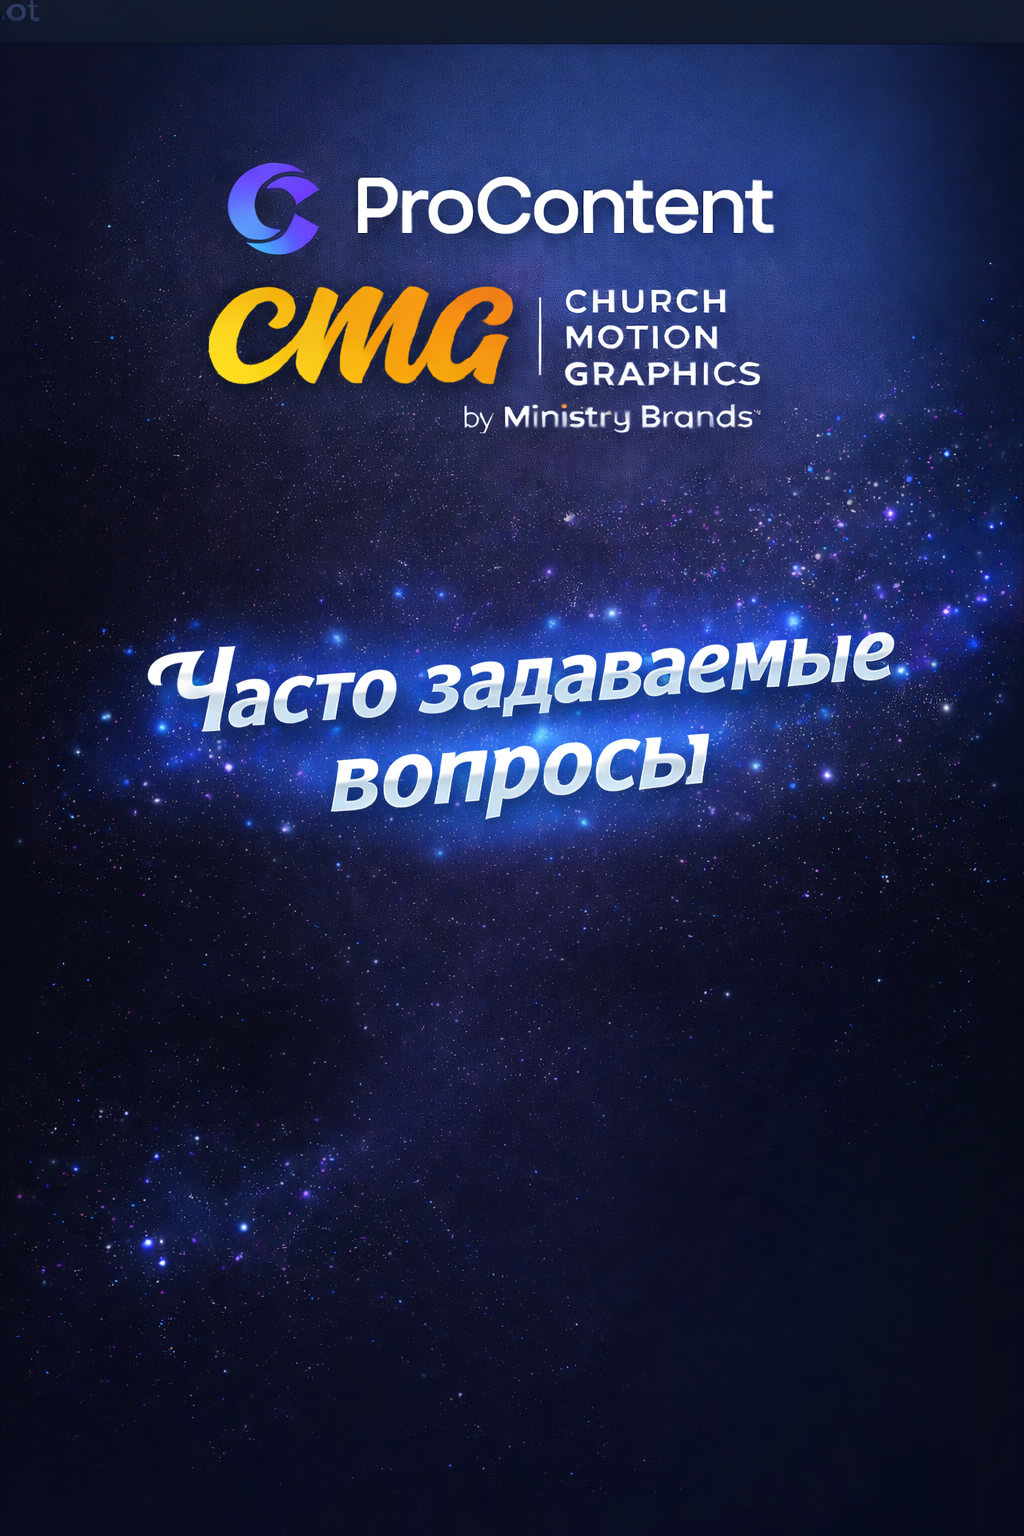
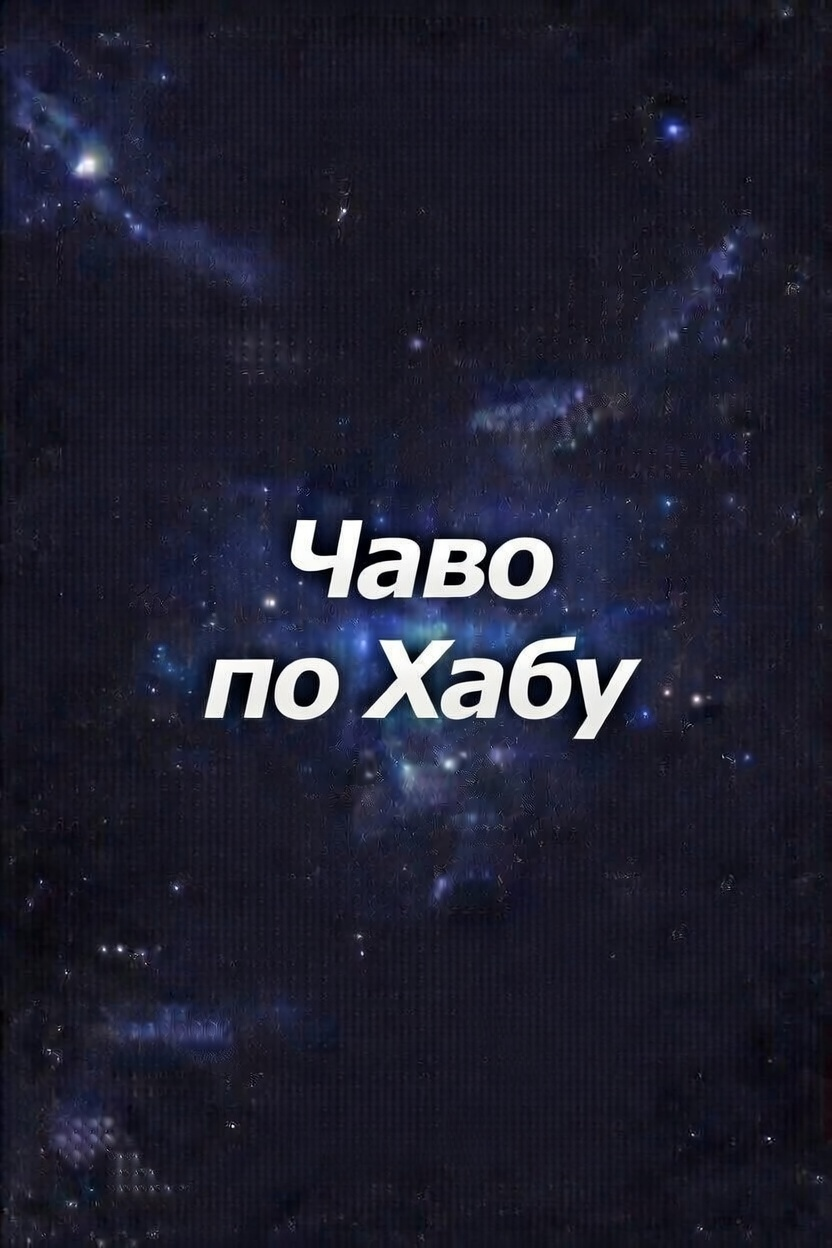
feat: add FAQ and Other screens with corresponding navigation and content

diff --git a/src/screens/others.ts b/src/screens/others.ts
@@ -1,0 +1,30 @@
+// src/screens/other.ts
+import { InlineKeyboard } from 'grammy'
+import { packCb } from '../core/callback.js'
+
+import type { ScreenView } from '../core/render.js'
+
+export function otherScreen(userId: number): ScreenView {
+  const kb = new InlineKeyboard()
+
+  kb.text('💬 ЧАТ С АДМИНОМ', packCb({ a: 'open', s: 'admin_chat' })).row()
+  kb.row()
+  kb.text('◀ Назад', packCb({ a: 'back' }))
+
+  return {
+    photo: './public/other.png', // жёлтый скрин из твоей папки public
+    // если файла нет — fallback: './public/main-menu.png'
+    caption:
+      `*ДРУГОЕ*\n\n` +
+      `Если вам нужна любая другая цифровая подписка или сервис, который недоступен в РФ (например, через прямую оплату из России заблокирован), мы поможем!\n\n` +
+      `Через ХАБ вы можете оплатить:\n` +
+      `• Любые премиум-сервисы (программы, облака, библиотеки контента и т.д.)\n` +
+      `• Доступ к аккаунтам, потокам, лицензиям\n` +
+      `• Всё, что связано с worship, музыкой, видео, софтом для церквей\n\n` +
+      `Просто напишите админу в чат — обсудим детали, стоимость и сроки.\n` +
+      `Мы подберём оптимальный способ оплаты и предоставим доступ на ваш аккаунт.\n\n` +
+      `Готовы помочь — жмите кнопку ниже!`,
+
+    keyboard: kb,
+  }
+}

diff --git a/src/screens/faq-hub.ts b/src/screens/faq-hub.ts
@@ -1,0 +1,28 @@
+// src/screens/faq_hub.ts
+import { InlineKeyboard } from 'grammy'
+import { packCb } from '../core/callback.js'
+
+import type { ScreenView } from '../core/render.js'
+
+export function faqHubScreen(userId: number): ScreenView {
+  const kb = new InlineKeyboard()
+
+  // Вертикальный список категорий (как на скрине)
+  kb.text('🟧 ProPresenter', packCb({ a: 'open', s: 'faq_propresenter' })).row()
+  kb.text('🟪 Контент для экранов', packCb({ a: 'open', s: 'faq_content_screens' })).row()
+  kb.text('📚 Обучение', packCb({ a: 'open', s: 'faq_learning' })).row()
+  kb.text('🟨 Другое', packCb({ a: 'open', s: 'other' })).row()
+  kb.text('💳 Об оплате', packCb({ a: 'open', s: 'payment' })).row()
+  kb.row()
+  kb.text('◀ Назад', packCb({ a: 'back' }))
+
+  return {
+    photo: './public/faq.png', // твой бирюзовый скрин или любой подходящий
+    caption:
+      `*ЧАВО ПО ХАБУ (FAQ)*\n\n` +
+      `Здесь собраны самые частые вопросы по работе ХАБа, подпискам и оплате.\n\n` +
+      `Выберите тему, чтобы увидеть подробные ответы:`,
+
+    keyboard: kb,
+  }
+}

diff --git a/src/screens/index.ts b/src/screens/index.ts
@@ -6,6 +6,8 @@ import { profileScreen } from './profile.js'
 import { addSubscriptionScreen } from './add-subscription.js'
 import { propresenterScreen } from './propresenter.js'
 import { contentScreensScreen } from './content-screens.js'
+import { otherScreen } from './others.js'
+import { faqHubScreen } from './faq-hub.js'
 
 export function initScreens() {
   const registry: Record<ScreenId, (userId: number) => ScreenView> = {
@@ -18,15 +20,16 @@ export function initScreens() {
     add_subscription: addSubscriptionScreen,
     propresenter: propresenterScreen,
     contentScreens: contentScreensScreen,
+    faq_hub: faqHubScreen,
+    other: otherScreen,
+    admin_chat: mainScreen,
     chat: mainScreen,
     faq_propresenter: mainScreen,
     faq_content_screens: mainScreen,
     help: mainScreen,
     legal: mainScreen,
-    faq_hub: mainScreen,
     payment: mainScreen,
     payment_info: mainScreen,
-    other: mainScreen,
   }
 
   registerScreens(registry)

diff --git a/src/state/ui.ts b/src/state/ui.ts
@@ -6,6 +6,9 @@ export type ScreenId =
   | 'propresenter'
   | 'faq_propresenter'
   | 'contentScreens'
+  | 'admin_chat'
+  | 'faq_learning'
+  | 'faq_other'
   | 'chat'
   | 'help'
   | 'faq_hub'
